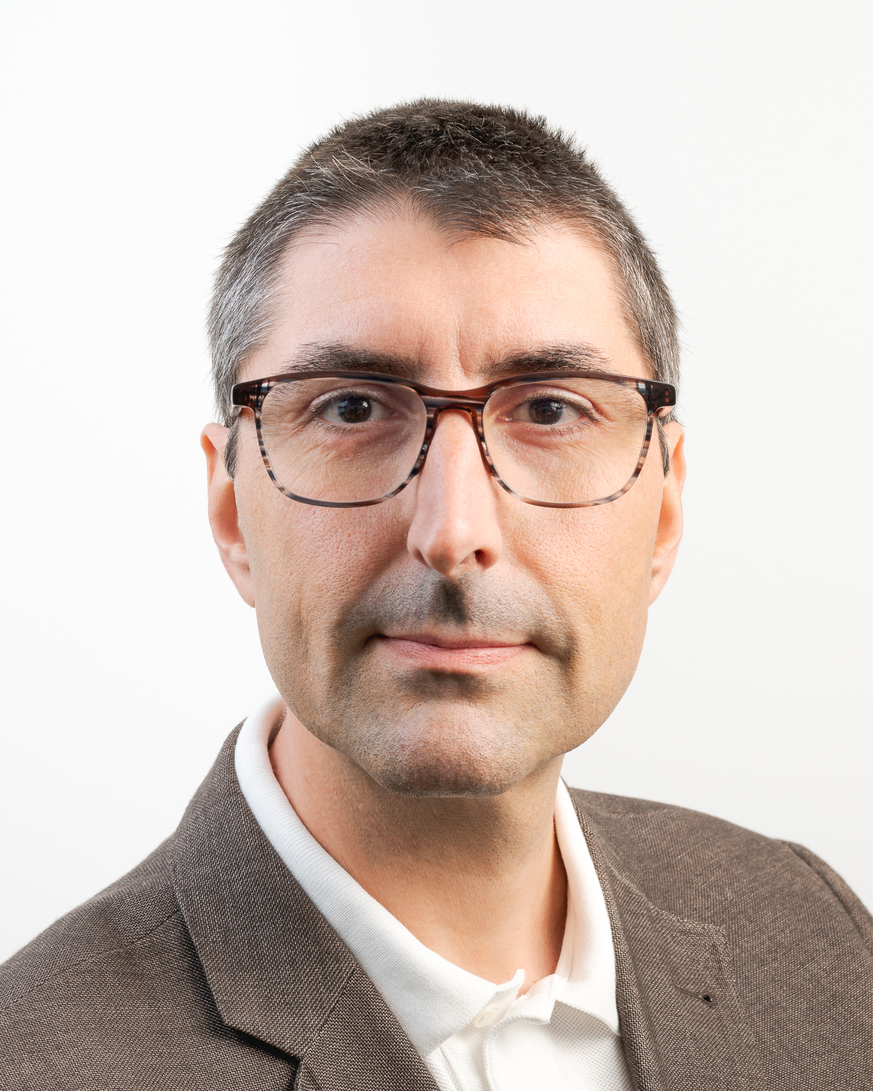
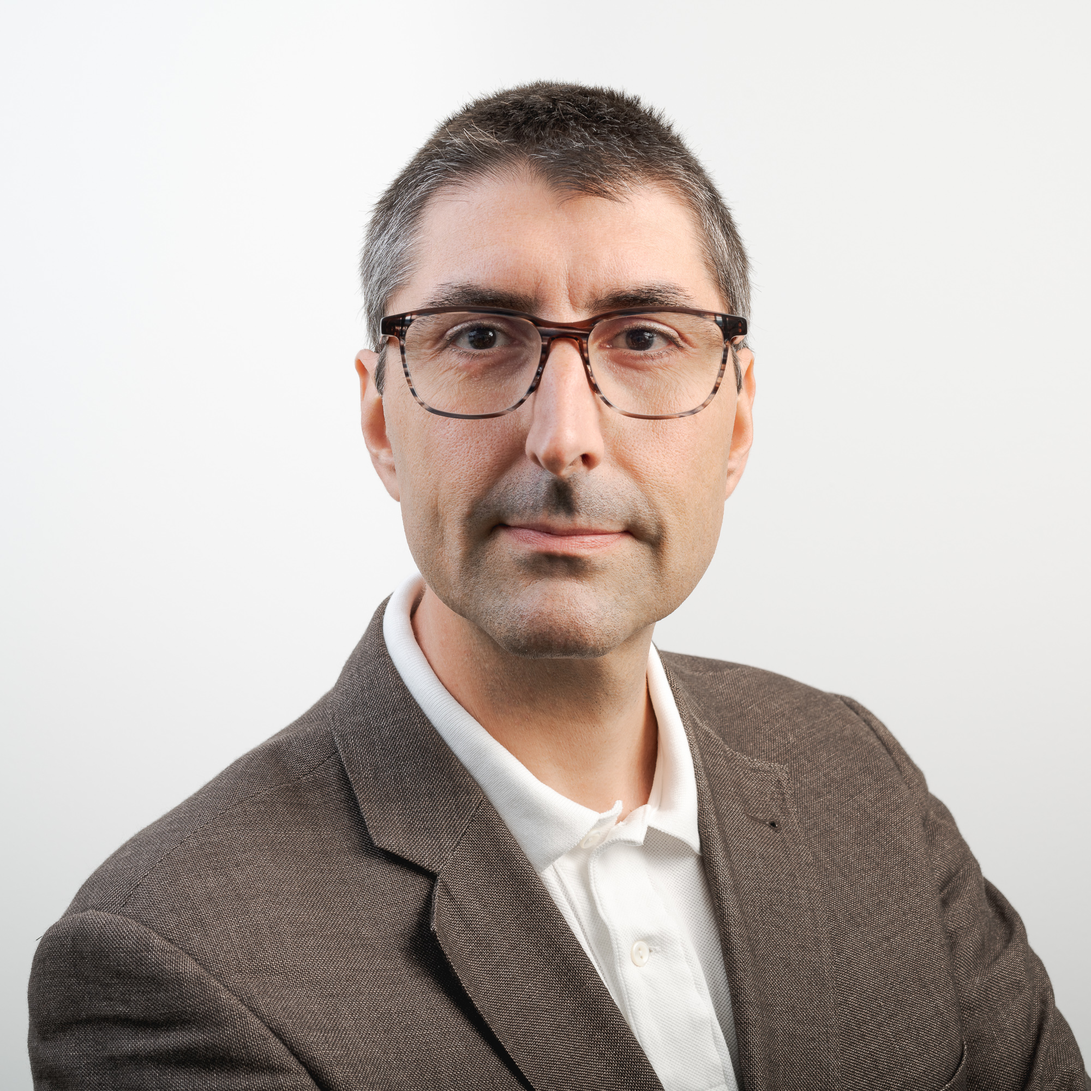
New profile photo

diff --git a/_includes/profile-pic.html b/_includes/profile-pic.html
@@ -1,1 +1,1 @@
-<img style="width: 220px;" src="/assets/me.jpg" alt="Riccardo Scandariato"/>
+<img style="width: 250px;" src="/assets/me.jpg" alt="Riccardo Scandariato"/>
